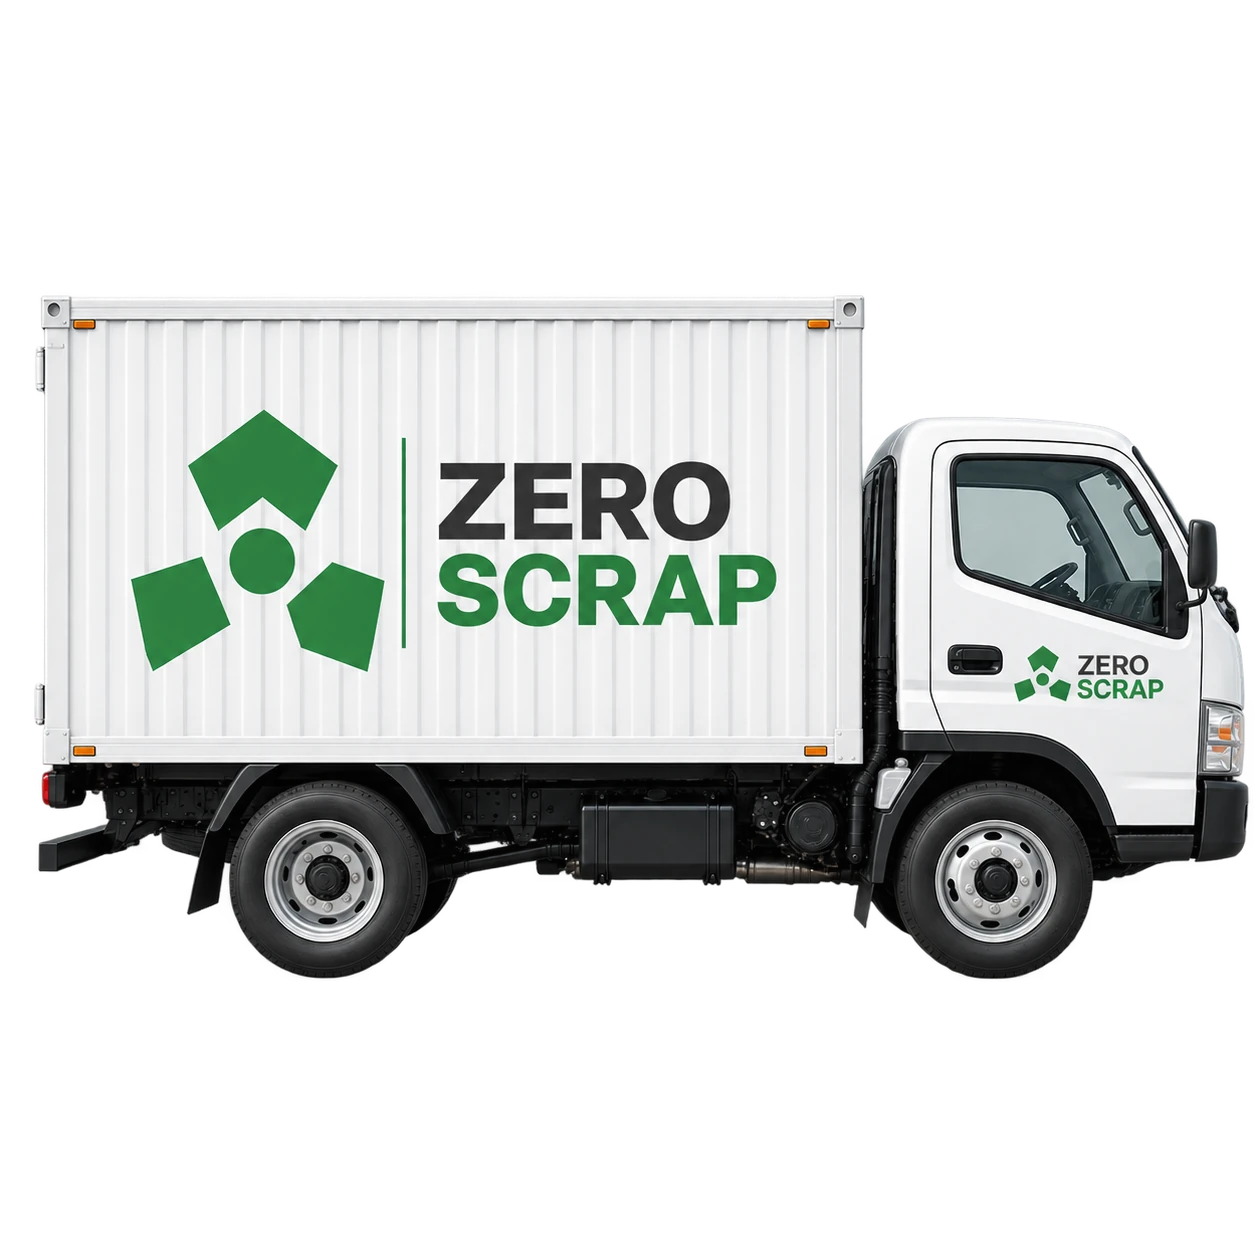
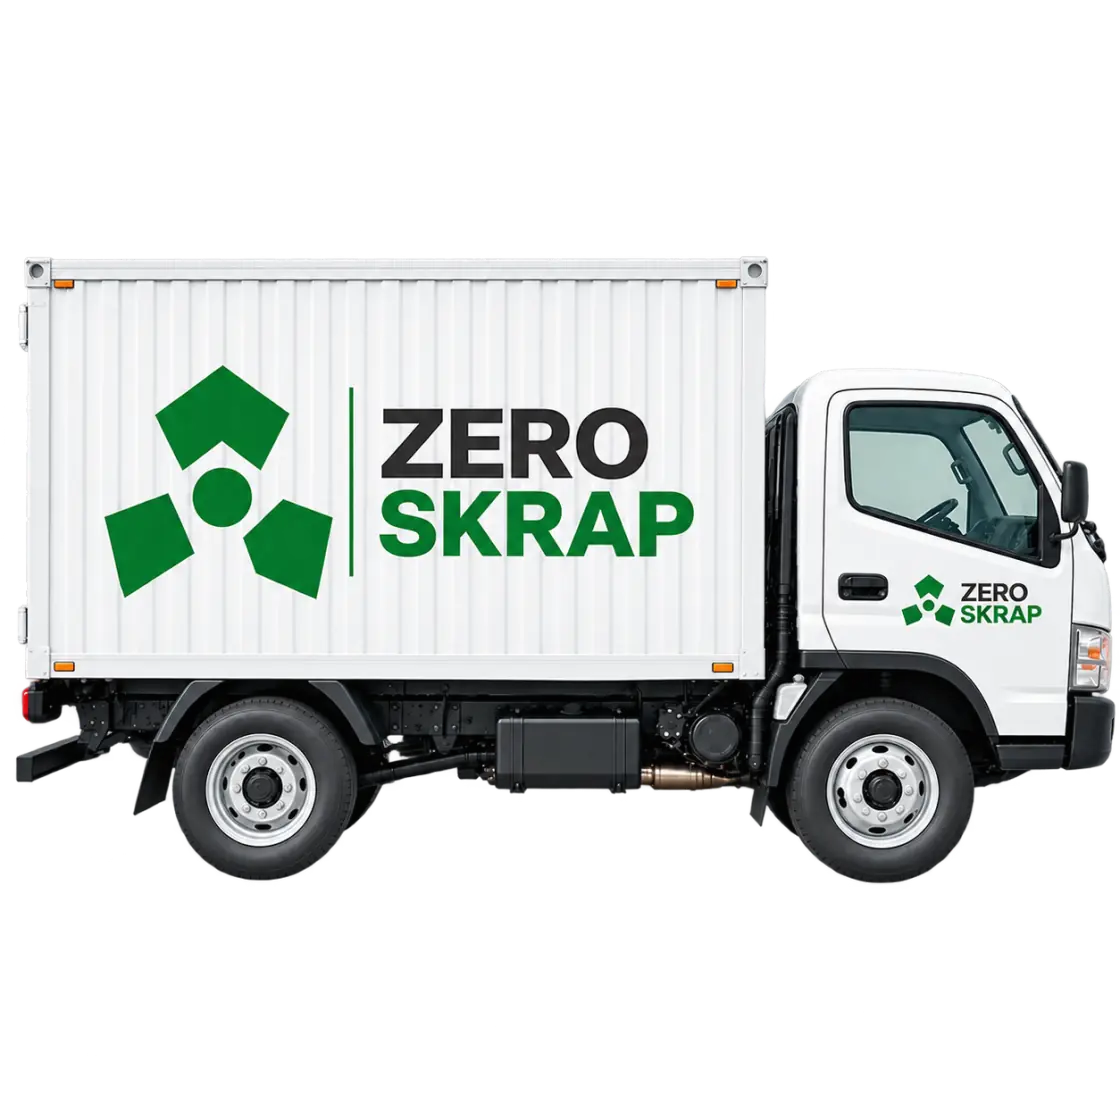
Replace process truck with a compressed transparent asset.
Swap in the new square cutout so the How it works callout sits cleanly on the light background without a black box.

Changed region(s): [[0.0, 0.2188, 1.0, 0.8125], [0.0938, 0.3125, 0.625, 0.5312], [0.8438, 0.5938, 0.875, 0.625]]

diff --git a/lib/assets.ts b/lib/assets.ts
@@ -26,7 +26,7 @@ export const ASSETS = {
   /** REAL ASSET - industrial weighbridge with scrap truck, landscape ~1.12:1. */
   trustWeighing: "/images/trust/scale.webp",
 
-  /** REAL ASSET - branded collection truck, transparent WebP, landscape ~1.73:1. */
+  /** REAL ASSET - branded collection truck, transparent WebP, square 1:1. */
   truck: "/images/sections/truck.webp",
 
   /** REAL ASSET - circular-economy diorama, transparent WebP, landscape ~1.22:1. */

diff --git a/components/sections/Process.tsx b/components/sections/Process.tsx
@@ -67,8 +67,8 @@ export const Process = () => (
         <Image
           src={ASSETS.truck}
           alt="ZeroSkrap collection truck"
-          width={1232}
-          height={711}
+          width={1120}
+          height={1120}
           sizes="(min-width: 1024px) 560px, (min-width: 640px) 70vw, 88vw"
           className="h-auto w-full lg:justify-self-end"
         />

diff --git a/README.md b/README.md
@@ -64,7 +64,7 @@ Keep the aspect ratio so spacing stays identical after the swap.
 | Asset            | Current file                                 | Ratio   |
 | ---------------- | -------------------------------------------- | ------- |
 | `trustWeighing`  | `public/images/trust/scale.webp`             | ~1.12:1 |
-| `truck`          | `public/images/sections/truck.webp`          | ~1.73:1 |
+| `truck`          | `public/images/sections/truck.webp`          | 1:1 |
 | `sustainability` | `public/images/sections/sustainability.webp` | ~1.22:1 |
 
 ## Logo and icons
